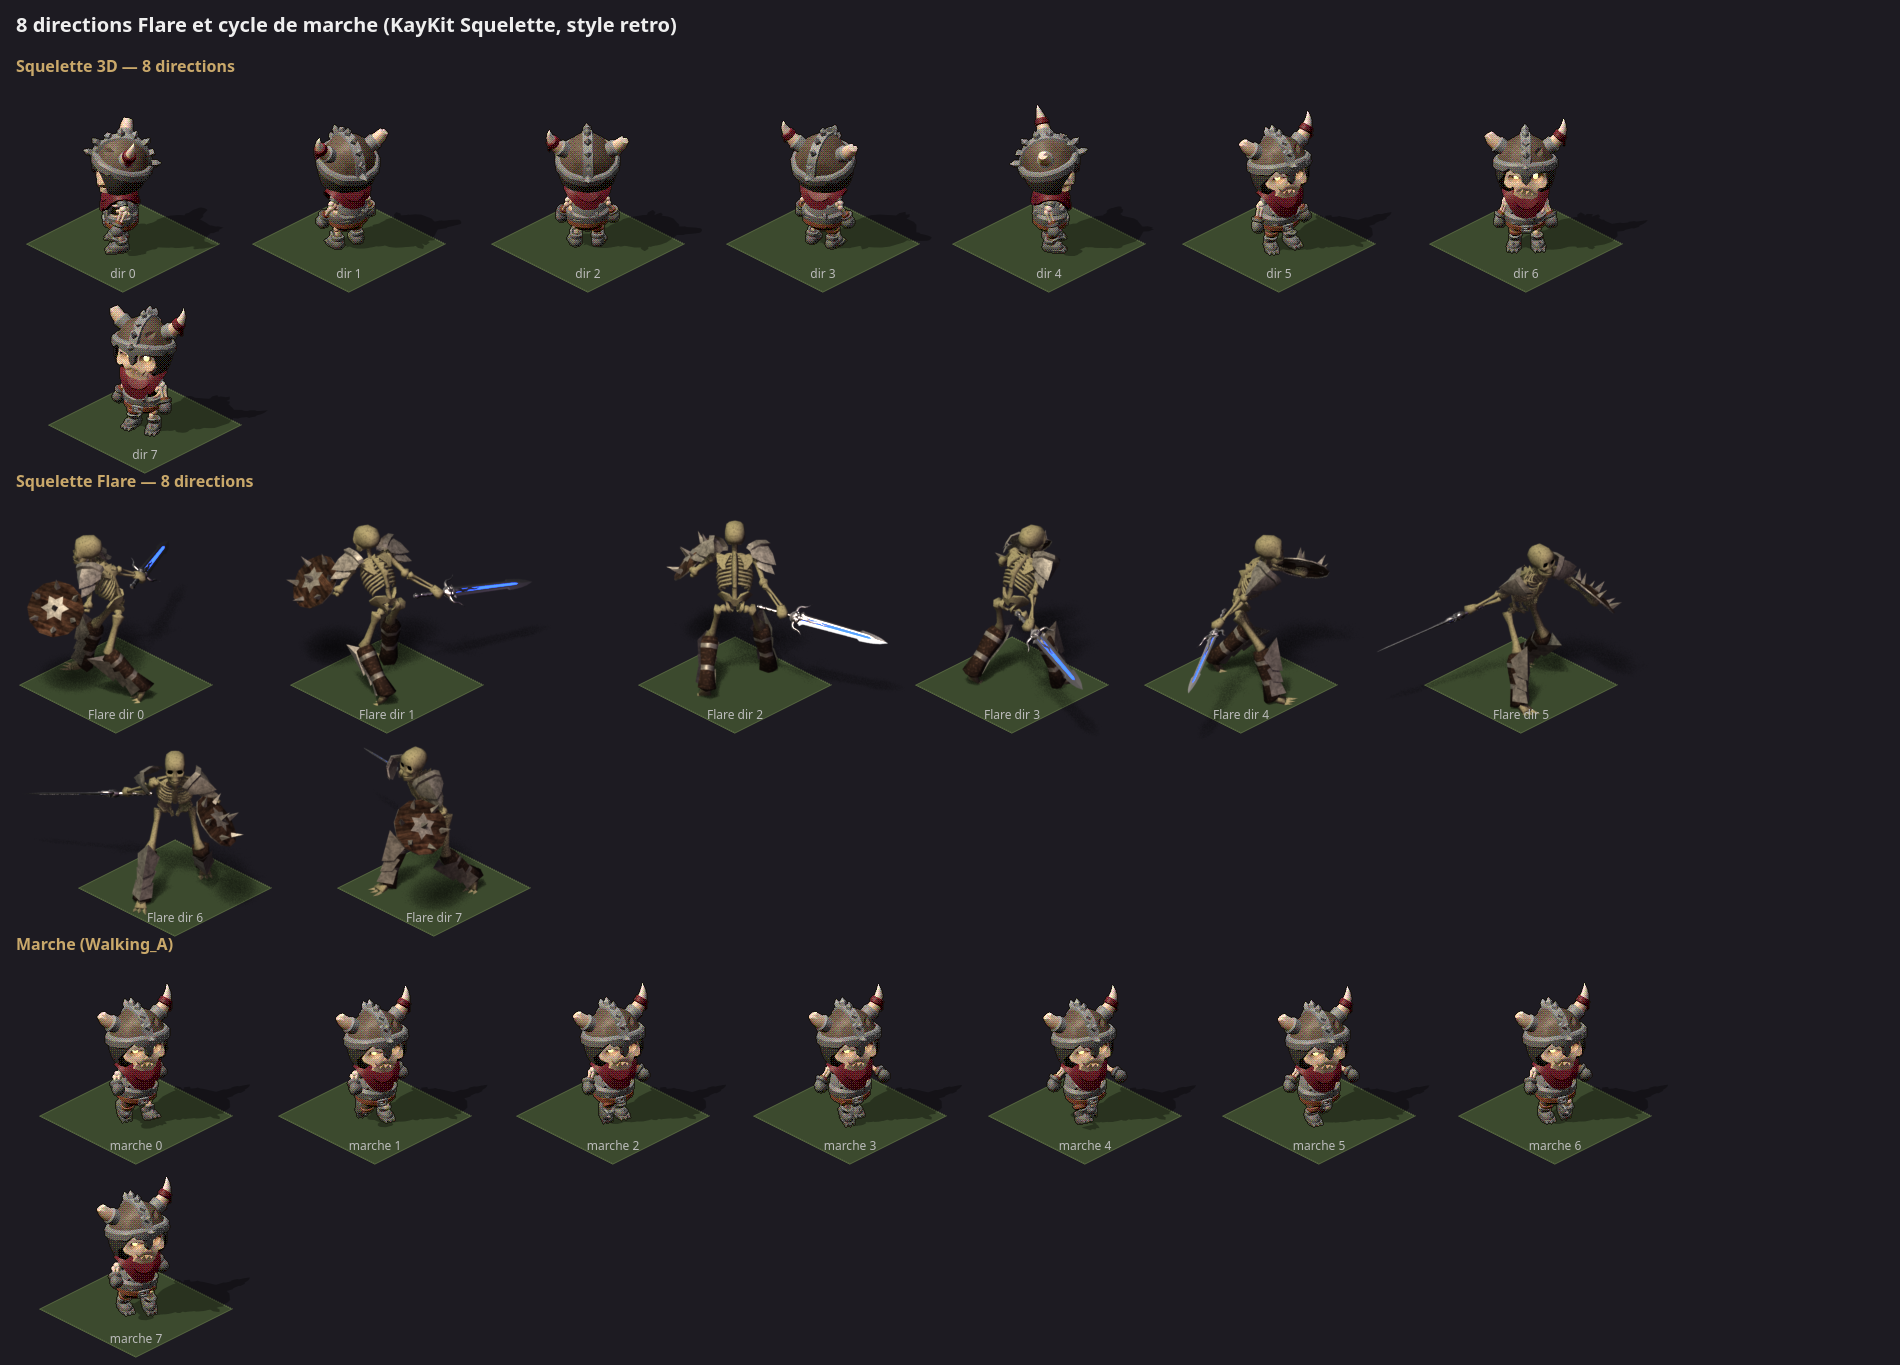
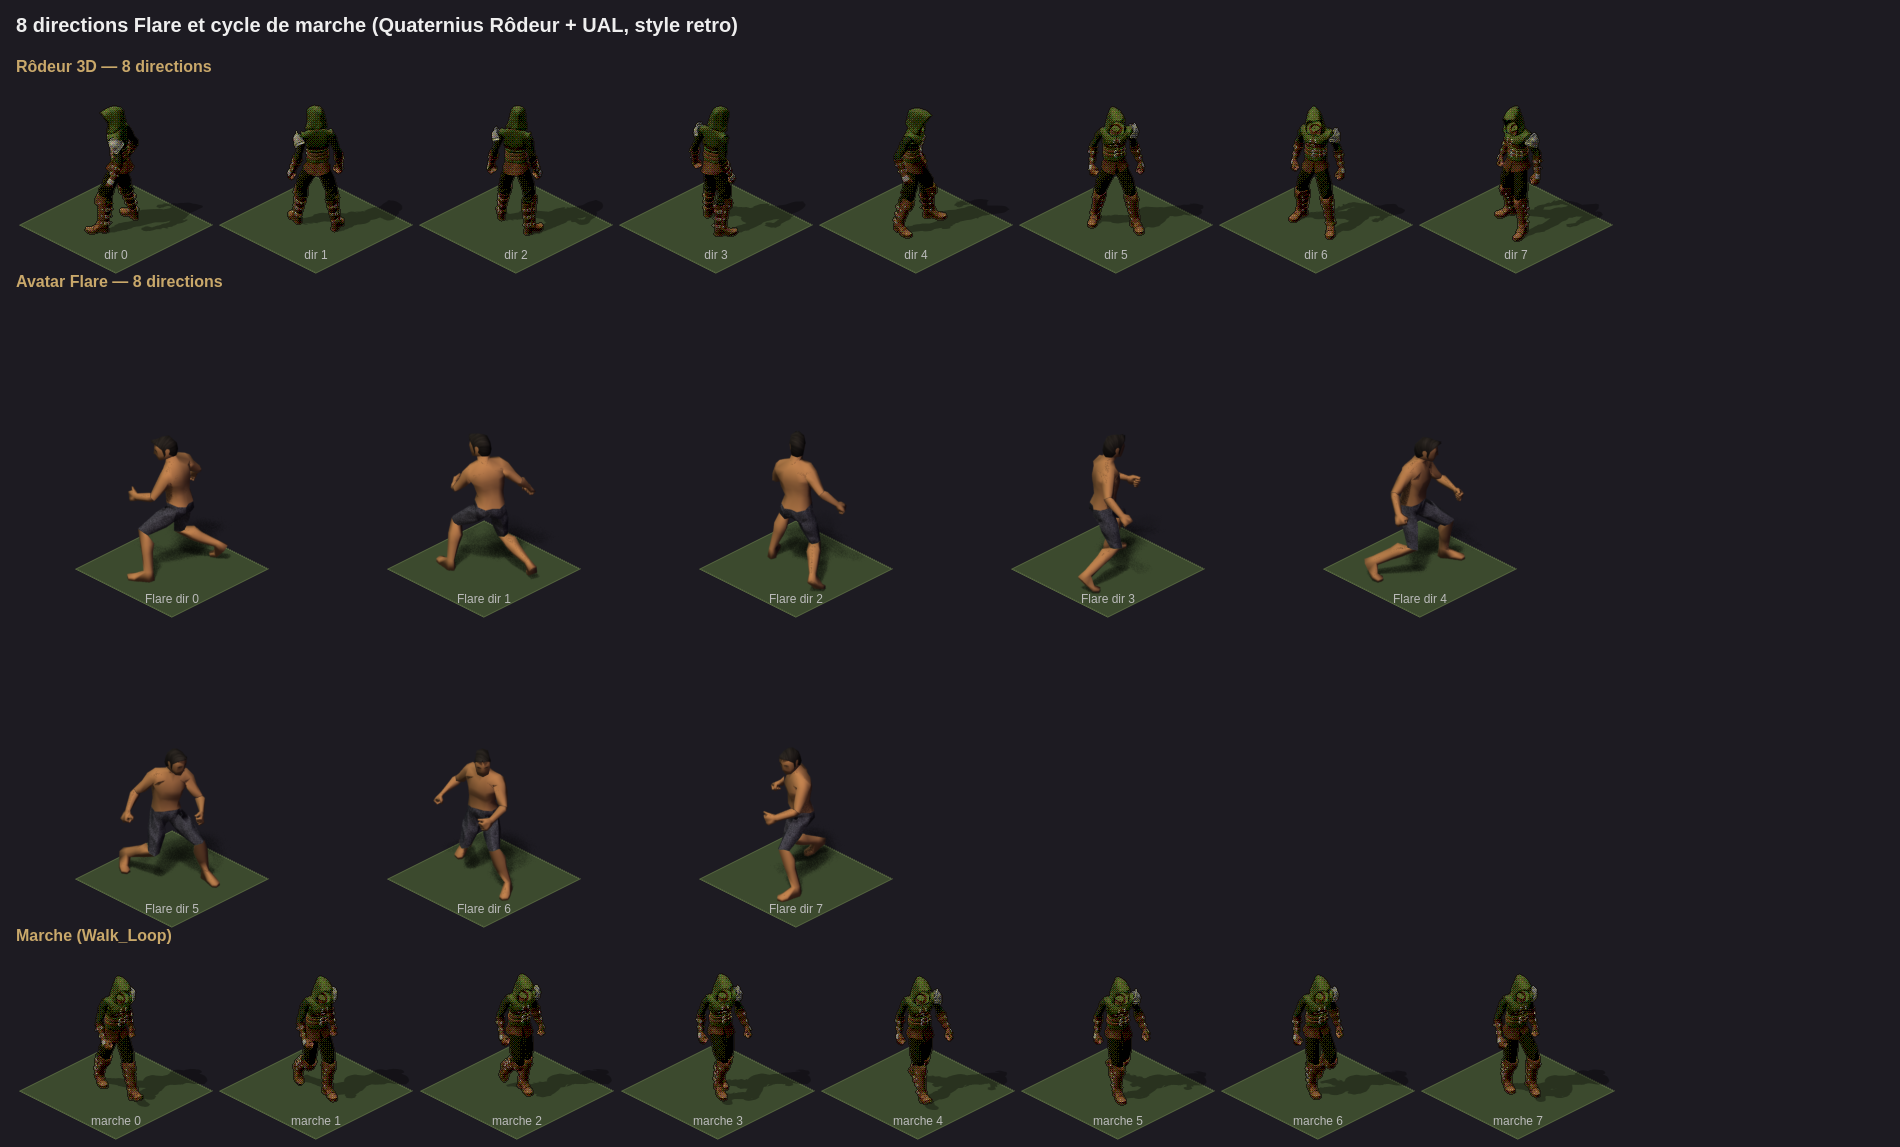
Atelier 3D : écarte KayKit (style trop cartoon pour T4C)
Après test de la planche, le style chibi de KayKit ne colle pas à
l'ambiance T4C et détonne à côté des humains Quaternius : tout KayKit
sort du catalogue (squelettes, mur de donjon).

La démo 8 directions + marche passe sur le Rôdeur Quaternius avec les
animations UAL, comparé à l'avatar Flare (plus pertinent que le
squelette). La matrice du bestiaire est mise à jour : squelette et liche
redeviennent des trous (5 directs, 13 substituts, 17 trous). Planches
régénérées.

diff --git a/tools/atelier3d/planche.js b/tools/atelier3d/planche.js
@@ -8,8 +8,6 @@ const UM = S + 'ultimate_monsters/Ultimate Monsters/';
 const ANI = S + 'ultimate_animated_animals/Ultimate Animated Animals - July 2021/glTF/';
 const RPG = S + 'rpg_characters/RPG Characters - Nov 2020/glTF/';
 const OUT = S + 'modular_character_outfits_fantasy/Modular Character Outfits - Fantasy[Standard]/Exports/glTF (Godot-Unreal)/Outfits/';
-const KKS = S + 'kaykit_skeletons_1_1_free/KayKit_Skeletons_1.1_FREE/';
-const KKS_ANIM = [KKS + 'Animations/gltf/Rig_Medium/Rig_Medium_General.glb', KKS + 'Animations/gltf/Rig_Medium/Rig_Medium_MovementBasic.glb'];
 const UAL = [S + 'universal_animation_library/Universal Animation Library[Standard]/Unreal-Godot/UAL1_Standard.glb'];
 const PROPS = S + 'fantasy_props_megakit/Exports/glTF/';
 const NAT = S + 'stylized_nature_megakit/glTF/';
@@ -28,8 +26,6 @@ const CATALOGUE = [
     { nom: 'Kenney Vampire', url: KG + 'character-vampire.glb', h: 1.8, clip: '^idle$' },
   ]],
   ['Créatures', [
-    { nom: 'KayKit Squelette', url: KKS + 'characters/gltf/Skeleton_Warrior.glb', anims: KKS_ANIM, h: 1.8, clip: '^Idle_A$' },
-    { nom: 'KayKit Squel. mage', url: KKS + 'characters/gltf/Skeleton_Mage.glb', anims: KKS_ANIM, h: 1.8, clip: '^Idle_A$' },
     { nom: 'Zombie (FBX)', url: S + 'zombie_by_quaternius/Zombie by @Quaternius/FBX/Zombie.fbx', texture: S + 'zombie_by_quaternius/Zombie by @Quaternius/Blends/ZombieTexture.png', h: 1.8, clip: 'ZombieIdle' },
     { nom: 'UM Orc', url: UM + 'Big/glTF/Orc.gltf', h: 1.9, clip: '^idle$' },
     { nom: 'UM Ninja (brigand ?)', url: UM + 'Big/glTF/Ninja.gltf', h: 1.75, clip: '^idle$' },
@@ -53,7 +49,6 @@ const CATALOGUE = [
     { nom: 'Arbre mort', url: NAT + 'DeadTree_1.gltf', h: 4.5 },
     { nom: 'Rocher', url: NAT + 'Rock_Medium_1.gltf', h: 1.1 },
     { nom: 'Mur village', url: S + 'medieval_village_megakit/Medieval Village MegaKit[Standard]/glTF/Wall_UnevenBrick_Window_Wide_Round.gltf', module: 2 },
-    { nom: 'KayKit mur donjon', url: S + 'kaykit_dungeon_pack_1_1_free/KayKit_Dungeon_Pack_1.1_FREE/Assets/gltf/wall.gltf', module: 4 },
     { nom: 'Kenney crypte', url: KG + 'crypt.glb', module: 0.75 },
     { nom: 'Kenney tombe', url: KG + 'gravestone-cross.glb', module: 0.75 },
     { nom: 'Kenney tour', url: S + 'kenney_castle_kit/Models/GLB format/tower-square.glb', module: 0.5 },
@@ -161,21 +156,24 @@ async function planche() {
     images['planche_' + style] = composer(`Atelier 3D — style « ${style} » — direction ${DIR} (SE), case 192×96`, sections).toDataURL('image/png');
   }
 
-  // 8 directions + cycle de marche du squelette KayKit, face au squelette Flare
+  // 8 directions + cycle de marche de l'humain Quaternius (Rôdeur + UAL), face à l'avatar Flare
   const man = await (await fetch('/assets/manifest.json')).json();
-  const sq = man.enemies.skeleton, img = await chargerImage('/assets/' + sq.image);
-  const m = await modele(CATALOGUE[1][1][0]);
+  const av = man.avatar.male, couches = ['default_feet', 'cloth_pants', 'default_hands', 'default_chest', 'head_short'].filter(c => av[c]);
+  const imgs = await Promise.all(couches.map(c => chargerImage('/assets/' + av[c].image)));
+  const m = await modele(CATALOGUE[0][1][1]);
   const dirs = [], flare = [], marche = [];
   for (let d = 0; d < 8; d++) {
-    dirs.push({ nom: 'dir ' + d, ...atelier.rendre(m, { dir: d, clip: '^Idle_A$', t: 0.3, style: 'retro' }) });
-    const [x, y, w, h, ox, oy] = sq.anims.stance.fr[d][0];
-    const c = document.createElement('canvas'); c.width = w; c.height = h;
-    c.getContext('2d').drawImage(img, x, y, w, h, 0, 0, w, h);
-    flare.push({ nom: 'Flare dir ' + d, canvas: c, ox, oy });
+    dirs.push({ nom: 'dir ' + d, ...atelier.rendre(m, { dir: d, clip: '^Idle_Loop$', t: 0.3, style: 'retro' }) });
+    const c = document.createElement('canvas'); c.width = 300; c.height = 300;
+    couches.forEach((n, i) => {
+      const [x, y, w, h, ox, oy] = av[n].anims.stance.fr[d][0];
+      c.getContext('2d').drawImage(imgs[i], x, y, w, h, 150 - ox, 250 - oy, w, h);
+    });
+    flare.push({ nom: 'Flare dir ' + d, canvas: c, ox: 150, oy: 250 });
   }
-  const clipMarche = m.clips.find(c => /walk/i.test(c.name));
+  const clipMarche = m.clips.find(c => /^Walk_Loop$/i.test(c.name));
   for (let i = 0; i < 8; i++) marche.push({ nom: 'marche ' + i, ...atelier.rendre(m, { dir: DIR, clip: clipMarche, t: i * (clipMarche ? clipMarche.duration / 8 : 0), style: 'retro' }) });
-  images.directions = composer('8 directions Flare et cycle de marche (KayKit Squelette, style retro)', [['Squelette 3D — 8 directions', dirs], ['Squelette Flare — 8 directions', flare], ['Marche (' + (clipMarche?.name || 'aucun clip') + ')', marche]]).toDataURL('image/png');
+  images.directions = composer('8 directions Flare et cycle de marche (Quaternius Rôdeur + UAL, style retro)', [['Rôdeur 3D — 8 directions', dirs], ['Avatar Flare — 8 directions', flare], ['Marche (' + (clipMarche?.name || 'aucun clip') + ')', marche]]).toDataURL('image/png');
   return { images };
 }
 

diff --git a/client/js/admin/bake3d.js b/client/js/admin/bake3d.js
@@ -100,7 +100,7 @@ export class Atelier3D {
   }
 
   // Ajoute des clips venant d'un autre fichier (bibliothèques d'animations
-  // partagées : KayKit Rig_Medium, Quaternius UAL) — liés par nom d'os.
+  // partagées, ex. Quaternius UAL) — liés par nom d'os.
   async ajouterAnimations(modele, url) {
     const res = await (/\.fbx$/i.test(url) ? this.fbx : this.gltf).loadAsync(url);
     modele.clips.push(...(res.animations || []));

diff --git a/docs/atelier3d-catalogue.md b/docs/atelier3d-catalogue.md
@@ -5,14 +5,15 @@ même caméra 2:1, même soleil haut-gauche, même ombre portée pour tous les p
 
 - `atelier3d/planche_net.png` — style « net » (anticrénelé)
 - `atelier3d/planche_retro.png` — style « retro » (désaturé, palette tramée, contour)
-- `atelier3d/directions.png` — 8 directions Flare + cycle de marche (KayKit Squelette)
+- `atelier3d/directions.png` — 8 directions Flare + cycle de marche (Quaternius Rôdeur + UAL)
 
 ## Sources archivées (`~/t4c-assets-sources/`, hors dépôt)
 
 Toutes **CC0 1.0** (texte de licence vérifié dans chaque zip le 2026-10-19 ; empreintes
 sha256 dans `MANIFEST.json`). Quaternius publie désormais certains packs sous sa licence
 **QAL**, qui INTERDIT la redistribution dans un moteur/template : n'utiliser que les
-versions CC0 archivées. Exclu : *Bestiary – Dungeon Monsters Kit* (QAL).
+versions CC0 archivées. Exclus : *Bestiary – Dungeon Monsters Kit* (QAL) et **tout KayKit**
+(style trop cartoon/chibi, ne colle pas à l'ambiance T4C — décision du 2026-10-19).
 
 | Pack | Contenu utile | Remarque |
 |---|---|---|
@@ -27,8 +28,6 @@ versions CC0 archivées. Exclu : *Bestiary – Dungeon Monsters Kit* (QAL).
 | Quaternius Ultimate Monsters | 50 monstres animés | style « mignon » marqué |
 | Quaternius Ultimate Animated Animals | loup, renard, cerf, cheval, taureau… (12) | pas d'ours ni de sanglier |
 | Quaternius Zombie | zombie animé (FBX) | texture livrée à part |
-| KayKit Skeletons 1.1 | guerrier, mage, voleur, sbire + 26 clips | proportions chibi |
-| KayKit Dungeon Pack 1.1 | 211 pièces de donjon | pas de 4 unités |
 | Kenney (8 kits) | town, castle, graveyard, dungeons, cave, forest, nature | très simple, couleurs plates |
 
 Les versions payantes « Source » de Quaternius (proportions Regular, 12 tenues) sont aussi
@@ -40,8 +39,6 @@ CC0 : les acheter ne pose pas de problème de licence pour la plateforme.
 
 | Monstre (clé) | Nom | Proposition | |
 |---|---|---|---|
-| squelette | Squelette | KayKit Skeleton_Warrior | ✅ |
-| liche_mineure | Liche mineure | KayKit Skeleton_Mage | ✅ |
 | zombie | Zombie | Quaternius Zombie | ✅ |
 | loup | Loup | Animals Wolf | ✅ |
 | loup_noir | Loup noir | Animals Wolf + teinte | ✅ |
@@ -49,9 +46,9 @@ CC0 : les acheter ne pose pas de problème de licence pour la plateforme.
 | voleur | Voleur | UBC + Outfit Rôdeur / RPG Rogue + teinte | ✅ |
 | gobelin | Gobelin | UM Orc réduit + teinte | 🟡 |
 | orc | Hobgobelin | UM Orc | 🟡 |
-| orc_eclaireur | Éclaireur orc | UM Orc + arme KayKit | 🟡 |
+| orc_eclaireur | Éclaireur orc | UM Orc + arme Fantasy Props (hache/épée bronze) | 🟡 |
 | orc_guerrier | Guerrier orc | UM Orc + arme/bouclier | 🟡 |
-| orc_chaman | Chaman orc | UM Orc + bâton (Skeleton_Staff) | 🟡 |
+| orc_chaman | Chaman orc | UM Orc + bâton du RPG Mage | 🟡 |
 | skraug_vert | Skraug vert | UM Orc + teinte (pas d'homme-lézard) | 🟡 |
 | skraug_rouge | Skraug rouge | idem, teinte rouge | 🟡 |
 | troll | Troll | UM Yeti + teinte | 🟡 |
@@ -60,6 +57,8 @@ CC0 : les acheter ne pose pas de problème de licence pour la plateforme.
 | goule | Goule | Zombie + teinte | 🟡 |
 | guepe | Guêpe géante | UM Armabee (mignon) | 🟡 |
 | golem_pierre | Golem de pierre | rochers Nature assemblés sur un squelette UBC | 🟡 |
+| squelette | Squelette | — (seul squelette CC0 réaliste trouvé : aucun ; Kenney trop simple) | 🔴 |
+| liche_mineure | Liche mineure | — (dépend du squelette) | 🔴 |
 | sanglier | Sanglier | (Taureau réduit : peu crédible) | 🔴 |
 | ours | Ours brun | — | 🔴 |
 | rat_caverne | Rat des cavernes | — | 🔴 |
@@ -76,7 +75,7 @@ CC0 : les acheter ne pose pas de problème de licence pour la plateforme.
 | tarentule_geante | Tarentule géante | — | 🔴 |
 | necro_araignee | Nécro-araignée | — | 🔴 |
 
-Bilan : **7 ✅, 13 🟡, 15 🔴**. 9 des 15 trous sont des **insectes / arachnides** (une
+Bilan : **5 ✅, 13 🟡, 17 🔴**. 9 des 17 trous sont des **insectes / arachnides** (une
 seule famille de modèles à trouver, à générer ou à animer procéduralement : un rig de
 pattes en IK se code sans talent graphique). Les décors, eux, sont largement couverts.
 
@@ -87,6 +86,7 @@ pattes en IK se code sans talent graphique). Les décors, eux, sont largement co
 - **Humains** (UBC / Outfits / UAL) : les plus proches de l'esprit T4C ; les animations
   partagées s'appliquent telles quelles.
 - **Ultimate Monsters** : trop « mignon » pour un T4C sombre, hors Orc/Yeti.
-- **KayKit** : chibi, détonne à côté des humains Quaternius — à réserver ou exclure.
+- **KayKit** : chibi, détonne à côté des humains Quaternius — **écarté**. Les squelettes
+  sont donc à retrouver (modèle CC0 réaliste, génération image→3D sur le corps UBC).
 - Pièges gérés par `bake3d.js` : > 4 influences d'os (renormalisation), opacité FBX à 0,
   texture FBX livrée à part, métal noir sans environnement.

diff --git a/tools/atelier3d/README.md b/tools/atelier3d/README.md
@@ -28,6 +28,6 @@ root : `apt-get download` des paquets puis `dpkg -x` dans un dossier local, et
 
 - `h` : hauteur réelle en mètres (personnages, créatures, props) — 1 case = 1,75 m ;
 - `module` : unités du fichier par case, pour les kits modulaires (Kenney ≈ 0.5,
-  graveyard 0.75, KayKit dungeon 4, Medieval Village 2) ;
+  graveyard 0.75, Medieval Village 2) ;
 - `clip` : motif (regex) du clip de pose ; `anims` : fichiers de clips partagés ;
 - `texture` : texture à appliquer quand le pack la livre à part (FBX).
